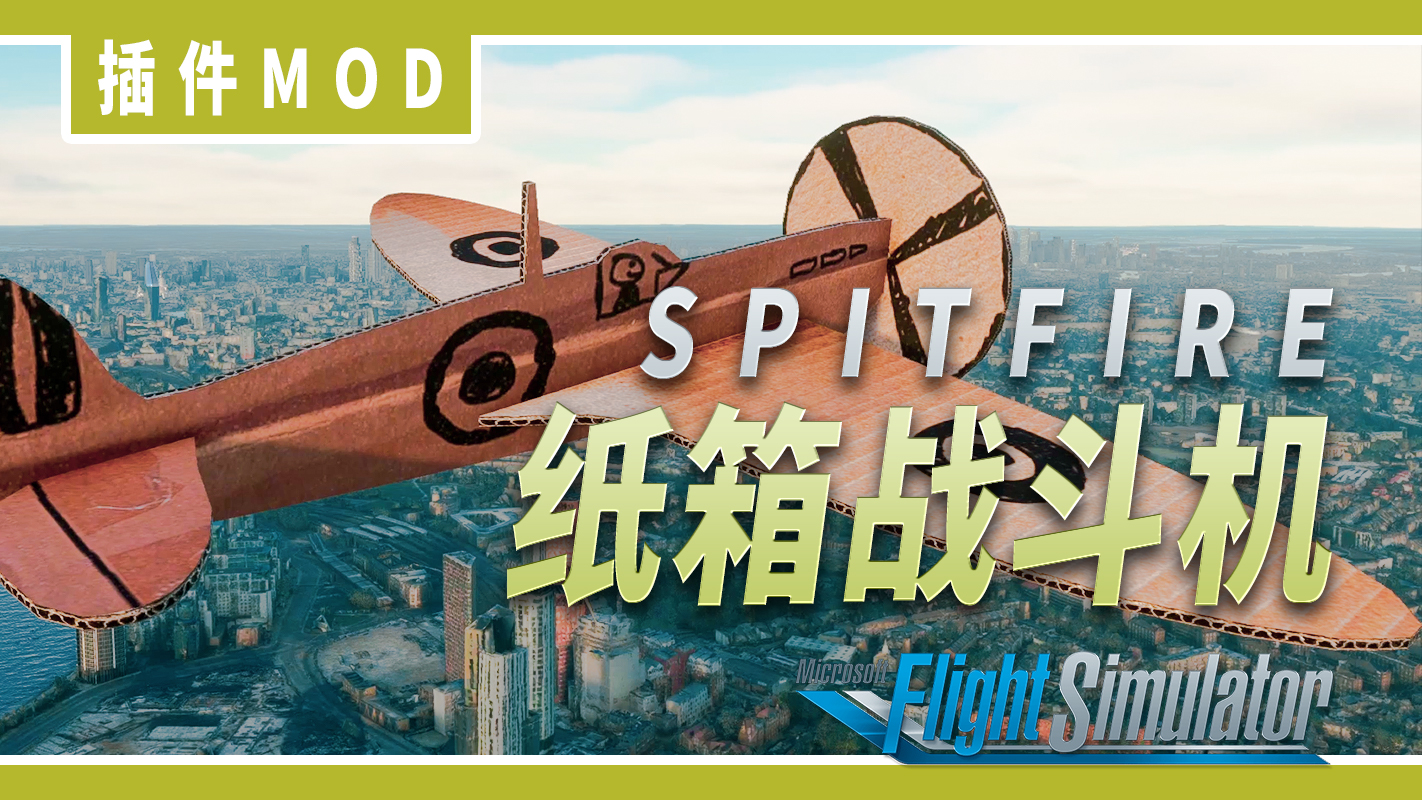
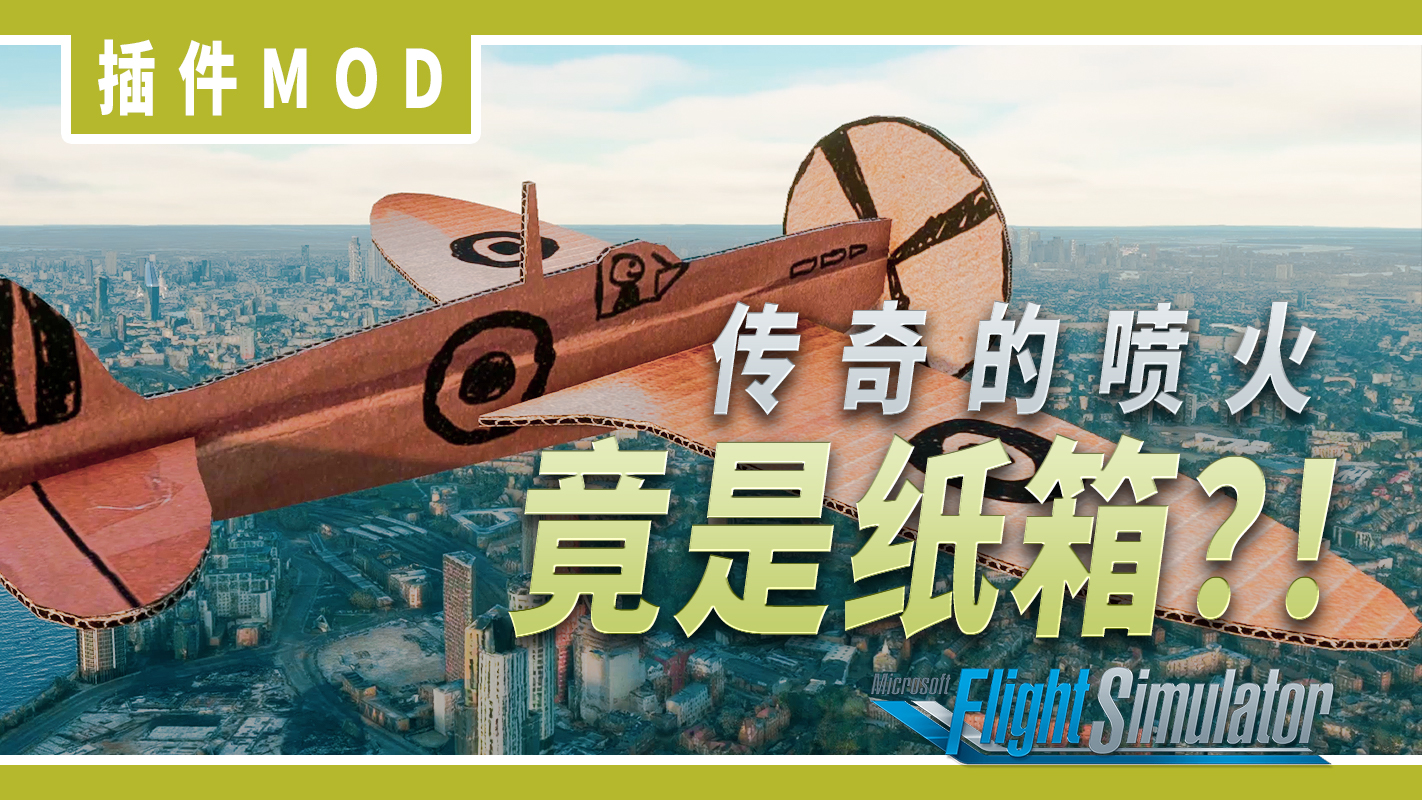
update thumbnail

Changed region(s): [[0.3404, 0.3438, 0.9592, 0.9688]]

diff --git a/data/videos.ts b/data/videos.ts
@@ -3,7 +3,7 @@ import { VideoItem } from '@types';
 const videos: VideoItem[] = [
     {
         name: {
-            zh: '插件介绍: 纸箱喷火战斗机',
+            zh: '纸箱喷火战斗机',
         },
         des: {
             zh:
